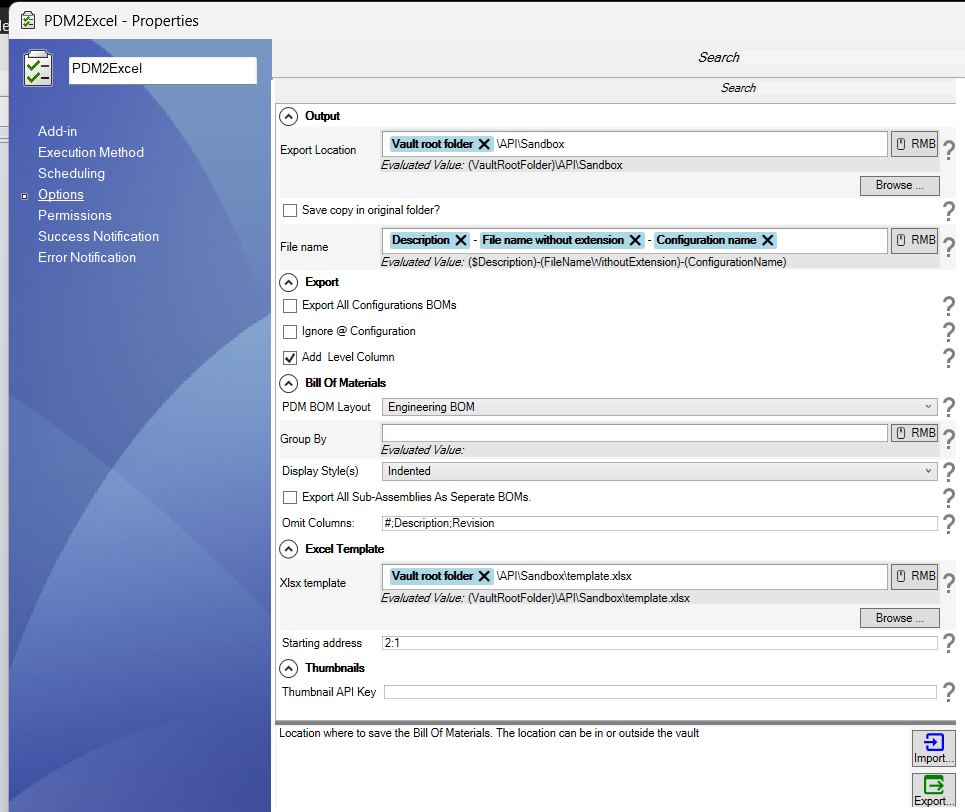
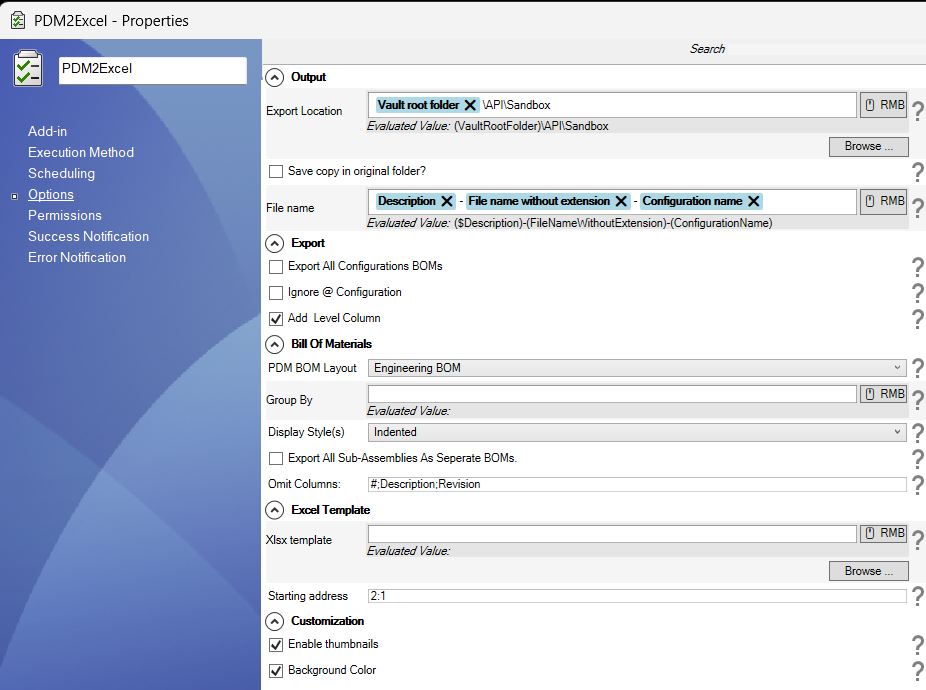
added dcos

Changed region(s): [[0.0, 0.0, 1.0, 1.0], [0.9676, 0.3652, 0.9978, 0.4565]]

diff --git a/docs/src/pdm2exceloptions.html b/docs/src/pdm2exceloptions.html
@@ -194,8 +194,12 @@
 </thead>
 <tbody>
 <tr>
-<td style="text-align: left;"><strong>Thumbnail API Key</strong></td>
-<td style="text-align: left;">API key required to embed thumbnails in the exported BOM. This is left empty in the current setup.</td>
+<td style="text-align: left;"><strong>Enable Rhumbnails</strong></td>
+<td style="text-align: left;">Adds  a thumbnail column.</td>
+</tr>
+<tr>
+<td style="text-align: left;"><strong>Background Color</strong></td>
+<td style="text-align: left;">Background color for each level.</td>
 </tr>
 </tbody>
 </table>

diff --git a/src/pdm2exceloptions.md b/src/pdm2exceloptions.md
@@ -43,4 +43,5 @@ The **Options** tab allows you to configure how the Bill of Materials (BOM) is e
 
 | **Option**           | **Description**                                                                                       |
 |:---------------------|:------------------------------------------------------------------------------------------------------|
-| **Thumbnail API Key**| API key required to embed thumbnails in the exported BOM. This is left empty in the current setup.   |
+| **Enable Rhumbnails**| Adds  a thumbnail column.   |
+| **Background Color**| Background color for each level.   |
